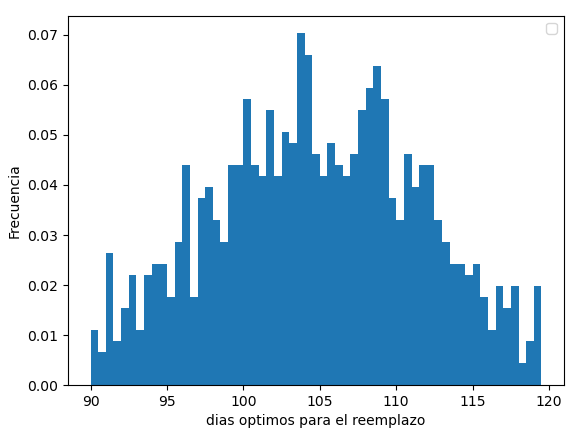
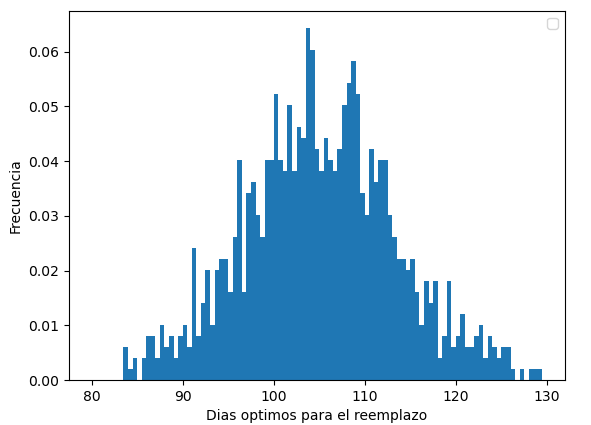
Grafico consumo vs eficiencia

Changed region(s): [[0.0, 0.0306, 0.9796, 1.0]]

diff --git a/codigo.py b/codigo.py
@@ -5,7 +5,7 @@ np.random.seed(2)
 
 # Definimos parametros para el MC
 M_i = 6000  # Tones/hora
-E_i = 24*np.sort(np.random.rand(4*30)*745.7*400*6)  # kWh
+E_i = 24*np.sort(np.random.rand(4*30-1)*745.7*400*6+745.7*400*6)  # kWh
 T_avg = 3.5*30  # Dias (promedio entre 3 y 4 meses)
 T_cycle = np.sort(np.random.randint(3*30, 4*30, 100))  # Arreglo lineal entre 3 y 4 meses
 
@@ -109,9 +109,9 @@ dias = np.random.normal(T_eff, Desviacion, 1_000)
 plt.figure(1)
 plt.clf()
 
-plt.hist(dias, bins=np.arange(90, 120, 0.5), density=True)
+plt.hist(dias, bins=np.arange(80, 130, 0.5), density=True)
 
-plt.xlabel('dias optimos para el reemplazo')
+plt.xlabel('Dias optimos para el reemplazo')
 plt.ylabel('Frecuencia')
 
 plt.legend()
@@ -132,12 +132,31 @@ dias = np.random.normal(Promedio, Desviacion, 1_000)
 plt.figure(2)
 plt.clf()
 
-plt.hist(dias, bins=np.arange(90, 120, 1), density=True)
+plt.hist(dias, bins=np.arange(75, 135, 1), density=True)
 
-plt.xlabel('Dias optimos para el reemplazo con mineral 37')
+plt.xlabel('Dias optimos para el reemplazo con muestra aletoria del mineral')
 plt.ylabel('Frecuencia')
 
 plt.legend()
+plt.show()
+
+eta_prom = np.zeros(4*30-1)
+for i in range(len(eta_prom)):
+    eta_prom[i] = np.mean(eta[:, i])
+
+# Grafico eficiencia vs consumo
+xx = np.linspace(0, 119, 4*30-1)
+
+plt.clf()
+fig, ax = plt.subplots()
+ax.plot(xx, E_i, 'r', label='Consumo')
+plt.legend(loc=2)
+ax.set_xlabel('Dias')
+ax.set_ylabel('Consumo [kWh]')
+ax2 = ax.twinx()
+ax2.plot(xx, eta_prom, 'b', label='Eficiencia')
+ax2.set_ylabel('Eficiencia recuperacion de mineral [Ton]')
+plt.legend(loc=1)
 plt.show()
 
 '''
